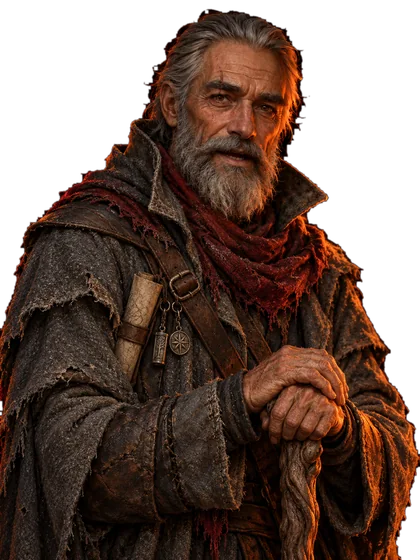
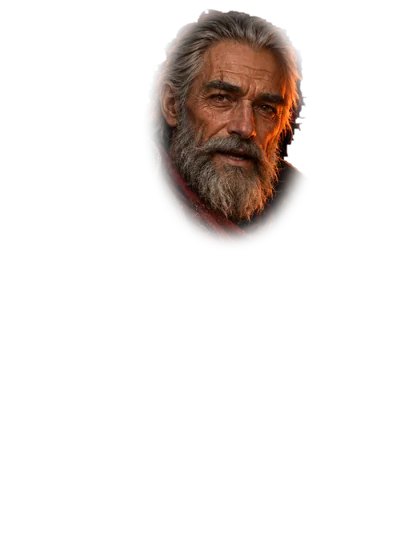
Рассказчик: без мерцания - основной кадр всегда снизу, кадры рта и моргания (только лицо) поверх и меняются мгновенно, тон лица подогнан под основной кадр, громкость сглажена, ~8 смен в секунду, моргает раз в 4-7 с; ореол вырезан мягко по яркости, а не порогом; края, где фигура упирается в кадр, рас

diff --git a/miniapp/src/components/Narrator.jsx b/miniapp/src/components/Narrator.jsx
@@ -9,8 +9,8 @@ import { onVoice } from '../voice.js';
  * 2 - показывает рукой, 3 - усмехается.
  *
  * Пока звучит фраза этого шага, рот открывается в такт громкости записи;
- * раз в несколько секунд он моргает. Все четыре кадра лежат стопкой, виден
- * один - смена без мигания и без догрузки.
+ * раз в несколько секунд он моргает. Кадры лежат стопкой: основной снизу
+ * всегда, рот или моргание поверх - смена без мигания и без догрузки.
  */
 const FILES = import.meta.glob('../assets/narrator/*.webp', { eager: true, query: '?url', import: 'default' });
 const FRAME = Object.fromEntries(
@@ -19,17 +19,15 @@ const FRAME = Object.fromEntries(
 const REDUCED = typeof window !== 'undefined'
   && window.matchMedia?.('(prefers-reduced-motion: reduce)').matches;
 
-/** Кадр рта по громкости: тишина - закрыт, тихо - приоткрыт, громко - открыт. */
-function mouthFrom(analyser, buffer) {
+/** Громкость фразы сейчас, 0..~0.3. */
+function loudness(analyser, buffer) {
   analyser.getByteTimeDomainData(buffer);
   let sum = 0;
   for (let i = 0; i < buffer.length; i += 1) {
     const v = (buffer[i] - 128) / 128;
     sum += v * v;
   }
-  const rms = Math.sqrt(sum / buffer.length);
-  if (rms < 0.03) return 1;
-  return rms < 0.09 ? 2 : 3;
+  return Math.sqrt(sum / buffer.length);
 }
 
 export default function Narrator({ voice, pose = 1 }) {
@@ -44,19 +42,32 @@ export default function Narrator({ voice, pose = 1 }) {
     let raf = 0;
     let last = 0;
     let blinkUntil = 0;
+    let level = 0;
+    let mouth = 1;
+    let fallback = 0;
     const buffer = speaking?.analyser ? new Uint8Array(speaking.analyser.fftSize) : null;
-    blinkAt.current = performance.now() + 1500 + Math.random() * 2500;
+    blinkAt.current = performance.now() + 2000 + Math.random() * 3000;
     const tick = (now) => {
       raf = requestAnimationFrame(tick);
-      if (now - last < 85) return;  // ~12 кадров в секунду: чаще губы мельтешат
+      // ~8 смен в секунду: чаще губы мельтешат.
+      if (now - last < 120) return;
       last = now;
       if (now > blinkAt.current) {
-        blinkUntil = now + 140;
-        blinkAt.current = now + 2800 + Math.random() * 3200;
+        blinkUntil = now + 150;
+        blinkAt.current = now + 4000 + Math.random() * 3000;
       }
-      let mouth = 1;
-      if (speaking) {
-        mouth = buffer ? mouthFrom(speaking.analyser, buffer) : 1 + Math.floor(Math.random() * 3);
+      if (speaking && buffer) {
+        // Громкость сглажена, а рот переходит на соседний кадр, только когда
+        // она уверенно ушла за порог: иначе он дёргался на каждом шорохе.
+        level = level * 0.55 + loudness(speaking.analyser, buffer) * 0.45;
+        const want = level < 0.025 ? 1 : level < 0.075 ? 2 : 3;
+        if (Math.abs(want - mouth) >= 1) mouth += Math.sign(want - mouth);
+      } else if (speaking) {
+        // Без анализатора: спокойное «открыл - прикрыл», не наугад.
+        fallback = (fallback + 1) % 4;
+        mouth = [2, 3, 2, 1][fallback];
+      } else {
+        mouth = 1;
       }
       // Моргает, только когда рот закрыт: открытый рот с закрытыми глазами
       // в кадрах не нарисован.
@@ -68,11 +79,12 @@ export default function Narrator({ voice, pose = 1 }) {
 
   if (!FRAME[`${pose}_1`]) return null;
   return (
-    <div className={speaking ? 'narrator narrator--speaking' : 'narrator'} aria-hidden="true">
+    <div className="narrator" aria-hidden="true">
       {[1, 2, 3, 4].map((k) => (
         <img
           key={k} src={FRAME[`${pose}_${k}`]} alt="" draggable="false"
-          className={k === frame ? 'narrator__frame narrator__frame--on' : 'narrator__frame'}
+          className={k === 1 ? 'narrator__frame narrator__frame--base'
+            : k === frame ? 'narrator__frame narrator__frame--on' : 'narrator__frame'}
         />
       ))}
     </div>

diff --git a/miniapp/src/profile.css b/miniapp/src/profile.css
@@ -884,29 +884,35 @@ body.lite .sparks {
   width: 112px;
   aspect-ratio: 420 / 560;
   pointer-events: none;
-  /* Снизу фигура растворяется в карточке: кадр обрезан по поясу. */
-  -webkit-mask-image: linear-gradient(180deg, #000 70%, transparent 100%);
-  mask-image: linear-gradient(180deg, #000 70%, transparent 100%);
-  transition: filter 0.4s ease;
+  /* Фигура растворяется в карточке снизу (кадр обрезан по поясу) и справа:
+     генератор упёр плечо в край кадра, и без растворения в карточке был
+     виден ровный срез (2026-10-22). */
+  -webkit-mask-image:
+    linear-gradient(180deg, #000 68%, transparent 100%),
+    linear-gradient(90deg, #000 70%, transparent 100%);
+  -webkit-mask-composite: source-in;
+  mask-image:
+    linear-gradient(180deg, #000 68%, transparent 100%),
+    linear-gradient(90deg, #000 70%, transparent 100%);
+  mask-composite: intersect;
   animation: narrator-in 0.45s var(--ease-out, ease-out) backwards;
 }
 
-.narrator--speaking {
-  filter: drop-shadow(0 0 10px rgba(255, 140, 60, 0.35));
-}
-
+/* Основной кадр лежит снизу всегда, рот и моргание - поверх и меняются
+   мгновенно. Раньше кадры перетекали через прозрачность: в середине оба
+   полупрозрачны, фигура тускнела - «мерцает» (2026-10-22). */
 .narrator__frame {
   position: absolute;
   inset: 0;
   width: 100%;
   height: 100%;
   object-fit: contain;
-  opacity: 0;
-  transition: opacity 0.06s linear;
+  visibility: hidden;
 }
 
+.narrator__frame--base,
 .narrator__frame--on {
-  opacity: 1;
+  visibility: visible;
 }
 
 @keyframes narrator-in {

diff --git a/tools/narrator_assets.py b/tools/narrator_assets.py
@@ -7,12 +7,14 @@ tools/narrator_art_prompts.md): 1 - рот закрыт, 2 - приоткрыт,
 4 - моргает. Что делает:
   1. из кадров 2-4 берёт только лицо и кладёт на кадр 1 с мягким краем:
      правка картинки генератором шевелит шум по всему кадру, и при смене
-     кадров плащ и руки мелко дрожали бы;
+     кадров плащ и руки мелко дрожали бы; тон лица подгоняет под кадр 1;
   2. вырезает чёрный фон - одна маска на позу, по кадру 1 (у всех кадров
-     позы один контур), тем же приёмом, что силуэты героя;
+     позы один контур): фигура непрозрачна, тёплый ореол вокруг -
+     полупрозрачен по своей яркости, без рваного края;
   3. отражает зеркально: на картинках он смотрит и показывает влево, а в
      мини-аппе стоит слева от текста подсказки и должен смотреть на него;
-  4. пишет webp в miniapp/src/assets/narrator/<поза>_<кадр>.webp.
+  4. пишет webp в miniapp/src/assets/narrator/<поза>_<кадр>.webp; в кадрах
+     2-4 только овал лица - мини-апп кладёт их поверх кадра 1.
 
 Оригиналы в git не идут (по 2.3 МБ).
 """
@@ -20,7 +22,7 @@ tools/narrator_art_prompts.md): 1 - рот закрыт, 2 - приоткрыт,
 import sys
 from pathlib import Path
 
-from PIL import Image, ImageChops, ImageDraw, ImageFilter, ImageOps
+from PIL import Image, ImageChops, ImageDraw, ImageFilter, ImageMath, ImageOps, ImageStat
 
 ROOT = Path(__file__).resolve().parent.parent
 SRC = ROOT / "img"
@@ -31,6 +33,9 @@ WIDTH = 420
 QUALITY = 84
 BG_LEVEL = 12
 CLOSE = 9
+#: Свечение вокруг фигуры (тёплый ореол на чёрном) - полупрозрачное по своей
+#: яркости: при такой яркости и выше оно уже непрозрачное.
+GLOW_FULL = 70
 
 
 def background_mask(img: Image.Image) -> Image.Image:
@@ -75,16 +80,50 @@ def face_mask(base: Image.Image, frames: list[Image.Image]) -> Image.Image:
     return mask.filter(ImageFilter.GaussianBlur(18))
 
 
+def match_tone(frame: Image.Image, base: Image.Image, mask: Image.Image) -> Image.Image:
+    """Тон лица кадра - как у основного: правка генератором чуть сдвигает
+    цвет, и при смене кадров лицо вспыхивало (2026-10-22, «мерцает»)."""
+    a = ImageStat.Stat(frame, mask).mean
+    b = ImageStat.Stat(base, mask).mean
+    bands = [band.point(lambda v, d=b[i] - a[i]: max(0, min(255, round(v + d))))
+             for i, band in enumerate(frame.split())]
+    return Image.merge("RGB", bands)
+
+
+def soft_alpha(img: Image.Image) -> Image.Image:
+    """Прозрачность: фигура целиком непрозрачна, а свечение вокруг -
+    полупрозрачно по своей яркости. Раньше резали по порогу, и ореол
+    обрывался рваным краем (2026-10-22, «свечение плохо вырезано»)."""
+    hard = Image.eval(background_mask(img), lambda v: 255 - v).filter(ImageFilter.GaussianBlur(1.2))
+    glow = img.convert("L").point(lambda v: min(255, round(v * 255 / GLOW_FULL)))
+    return ImageChops.lighter(hard, glow)
+
+
+def unpremultiply(img: Image.Image, alpha: Image.Image) -> Image.Image:
+    """Фон был чёрным, значит цвет полупрозрачного ореола на картинке уже
+    затемнён на его прозрачность - возвращаем настоящий цвет, иначе ореол
+    поверх карточки выйдет грязно-тёмным."""
+    bands = []
+    for band in img.split():
+        out = ImageMath.lambda_eval(
+            lambda a: a["c"] * 255 / (a["a"] + (a["a"] == 0)), c=band, a=alpha,
+        )
+        bands.append(out.convert("L"))  # из целых в 0-255: лишнее срезается
+    return Image.merge("RGB", bands)
+
+
 def process_pose(pose: int) -> None:
     frames = [Image.open(SRC / f"рассказчик_{pose}_{k}.png").convert("RGB") for k in (1, 2, 3, 4)]
     base = frames[0]
     mask = face_mask(base, frames[1:])
-    alpha = Image.eval(background_mask(base), lambda v: 255 - v).filter(ImageFilter.GaussianBlur(1.2))
+    alpha = soft_alpha(base)
     height = round(WIDTH * base.height / base.width)
     for k, frame in enumerate(frames, start=1):
-        merged = base if k == 1 else Image.composite(frame, base, mask)
-        rgba = merged.convert("RGBA")
-        rgba.putalpha(alpha)
+        merged = base if k == 1 else Image.composite(match_tone(frame, base, mask), base, mask)
+        rgba = unpremultiply(merged, alpha).convert("RGBA")
+        # Кадры 2-4 в мини-аппе лежат ПОВЕРХ кадра 1 - в них только лицо, иначе
+        # полупрозрачный ореол сложился бы дважды и пульсировал при смене кадров.
+        rgba.putalpha(alpha if k == 1 else ImageChops.multiply(alpha, mask))
         out = ImageOps.mirror(rgba).resize((WIDTH, height), Image.LANCZOS)
         target = OUT / f"{pose}_{k}.webp"
         out.save(target, "WEBP", quality=QUALITY, method=6)
